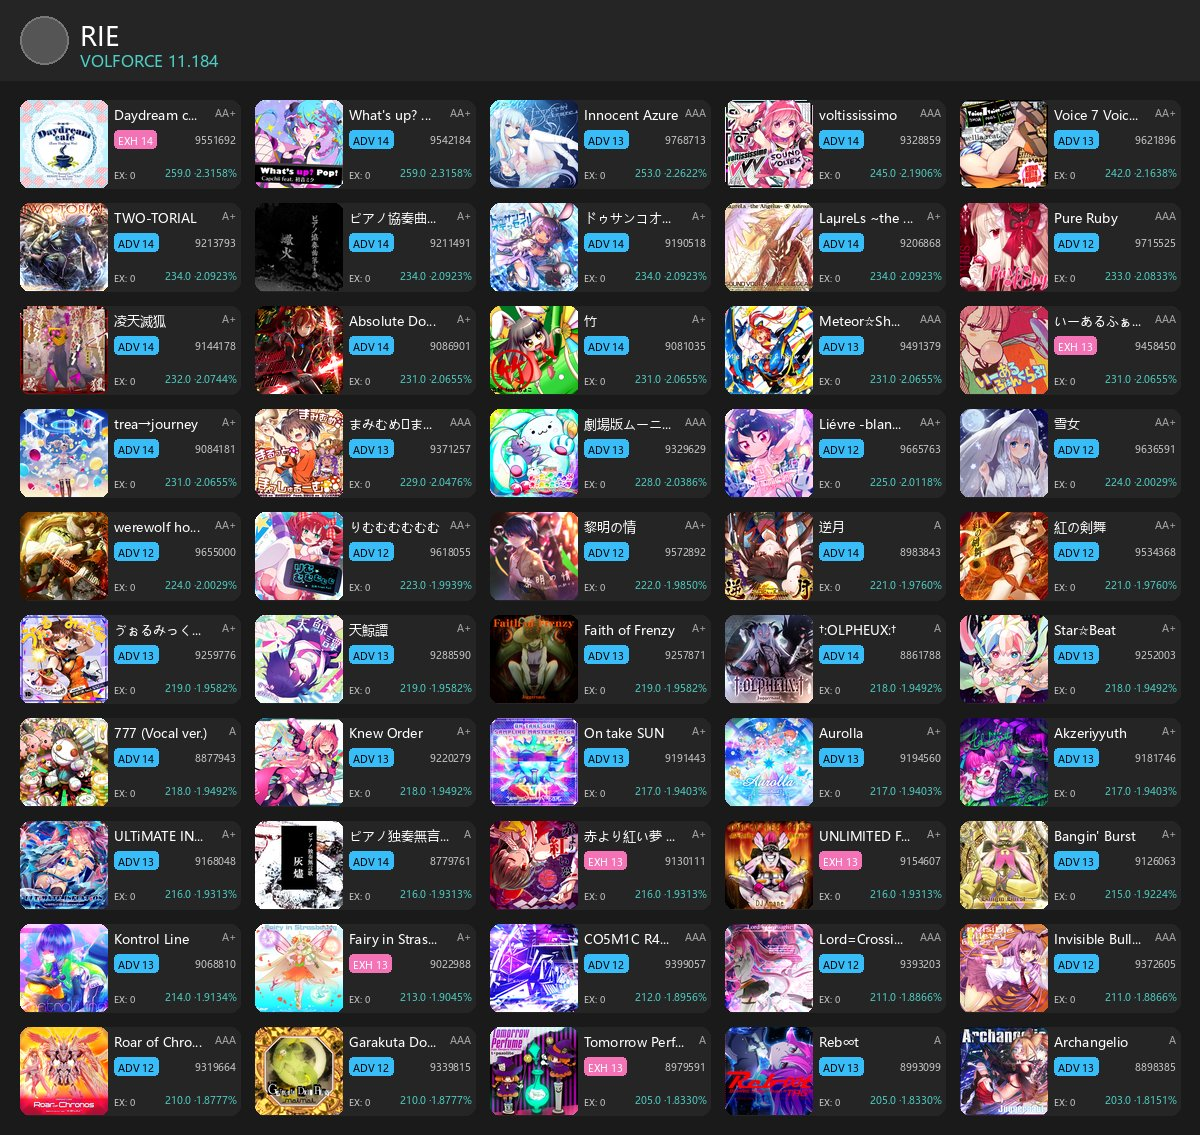
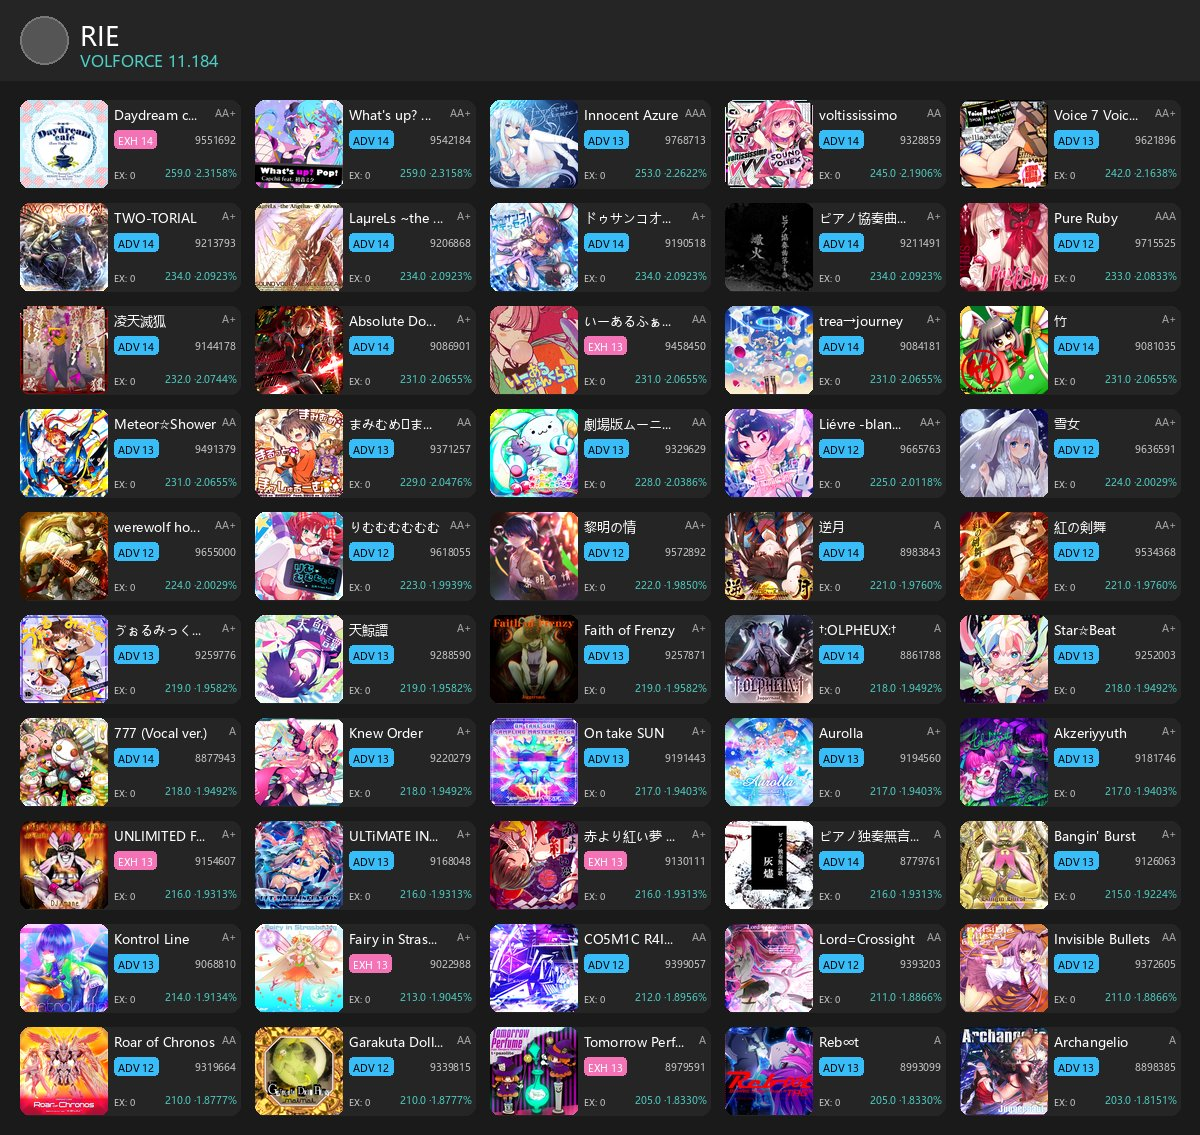
docs: update CHANGELOG for v1.2.1 grade fix, refresh sample assets

diff --git a/CHANGELOG.md b/CHANGELOG.md
@@ -3,6 +3,13 @@
 本项目遵循 [Keep a Changelog](https://keepachangelog.com/zh-CN/1.1.0/) 与
 [Semantic Versioning](https://semver.org/lang/zh-CN/)。
 
+## [1.2.1] - 2026-08-05
+
+### 修正
+
+- 修正 GRADE 名称映射：ID=6 错误显示为 "AAA"，现正确显示为 **"AA"**
+- 代码中补入完整 VF 公式与系数表注释（CLEAR + GRADE）
+
 ## [1.2.0] - 2026-08-05
 
 ### 变更
